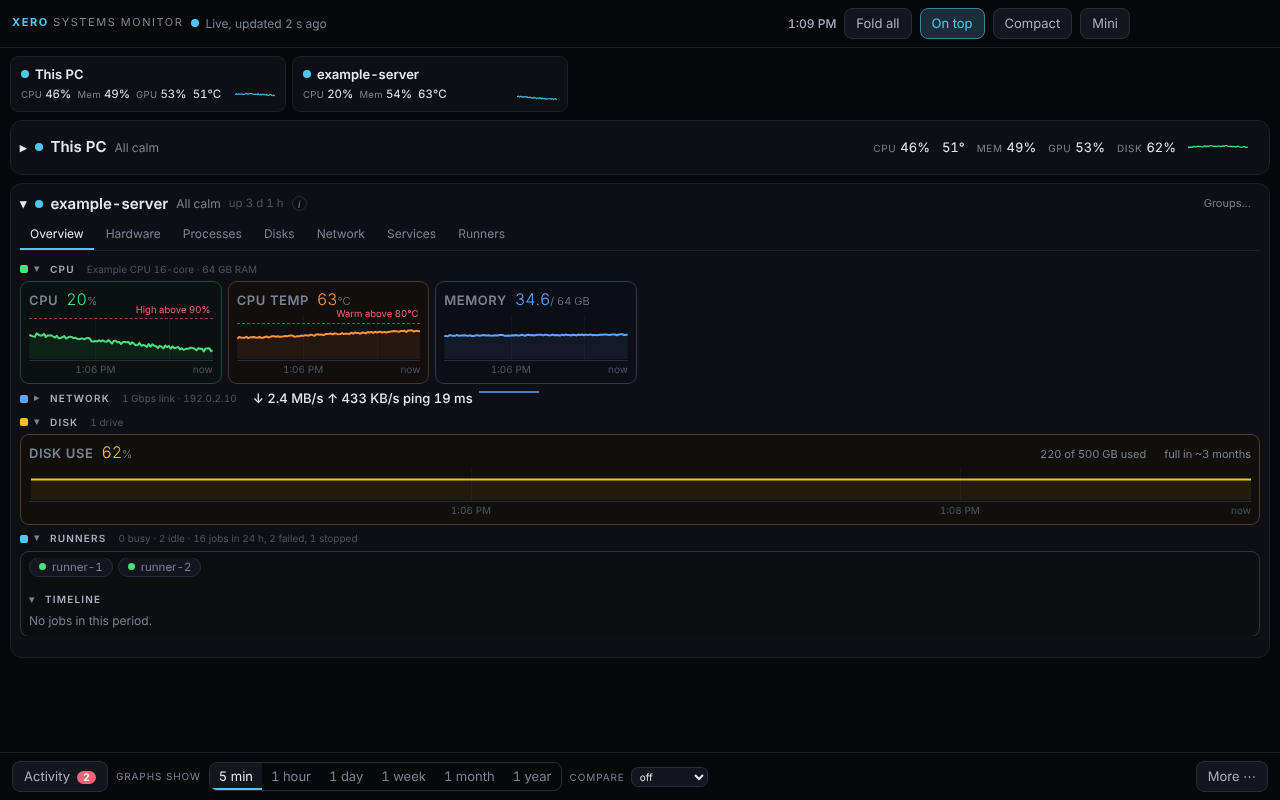
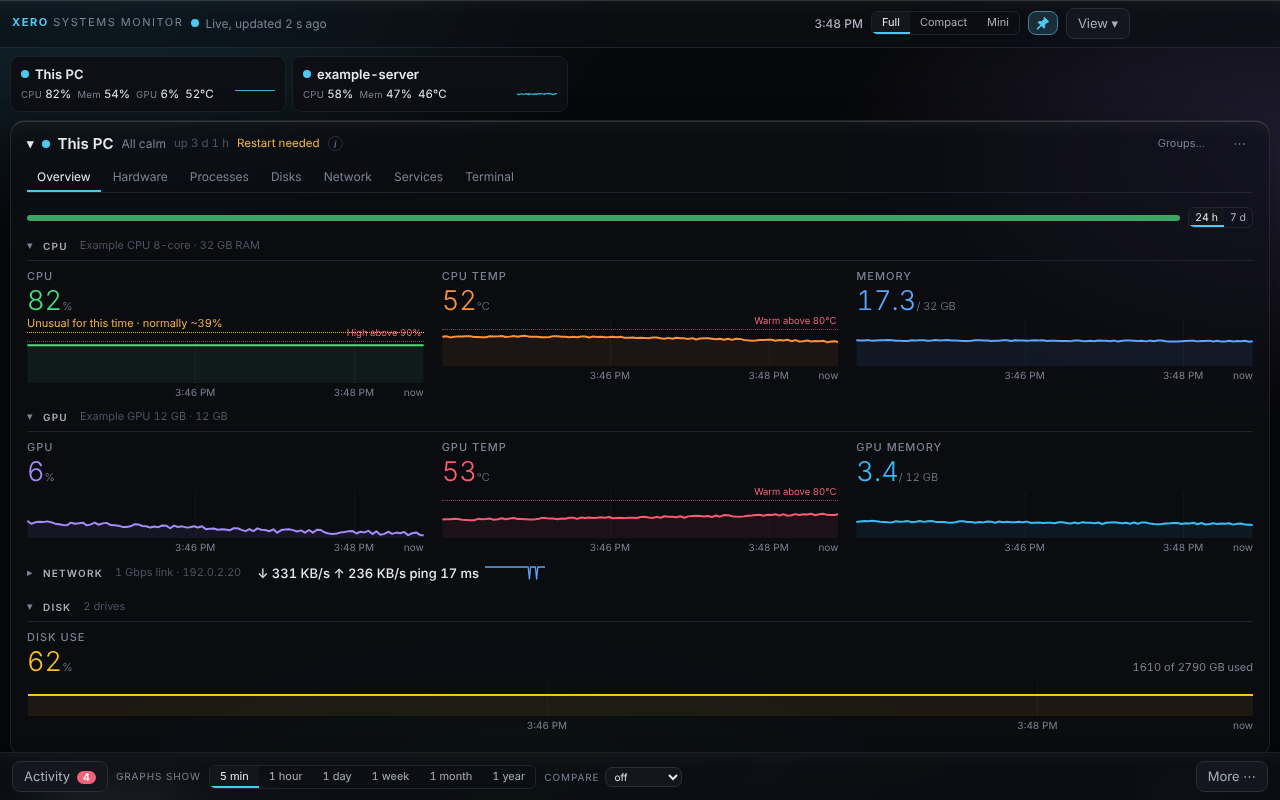
Flat glass look: one frosted surface per machine card, flat groups and open graphs, Glass setting
Claude-Session: https://claude.ai/code/session_0135roDSyKmVbufXTNSNLj3P

diff --git a/app/src/theme/model.js b/app/src/theme/model.js
@@ -4,7 +4,8 @@ import { FONT_IDS, fontStack } from "./fonts.js";
 //   { text:   { machine|section|group|number|label|small: { font, size, weight } },
 //     colors: { acc, bg, card, fg, dim, line, warn, bad, good, cpu, temp, ... },
 //     graph:  { style, width, grid, smooth, limits },
-//     size:   { card, density, scale } }
+//     size:   { card, density, scale },
+//     glass:  "off" | "subtle" | "full" }
 export const TEXT_LEVELS = [
   { id: "machine", label: "Machine name", size: 15 }, { id: "section", label: "Section header", size: 10 }, { id: "group", label: "Group header", size: 10 },
   { id: "number", label: "Big numbers", size: 16 }, { id: "label", label: "Labels", size: 13 }, { id: "small", label: "Small text", size: 11 },
@@ -15,6 +16,8 @@ export const SIZE_MIN = 8, SIZE_MAX = 32, LINE_MIN = 1, LINE_MAX = 4, SCALE_MIN 
 export const GRAPH_STYLES = [["line", "Line"], ["area", "Filled area"], ["bars", "Bars"]];
 export const CARD_SIZES = [["small", "Small"], ["medium", "Medium"], ["large", "Large"]];
 export const DENSITIES = [["compact", "Compact"], ["comfortable", "Comfortable"], ["spacious", "Spacious"]];
+export const GLASS_LEVELS = [["off", "Off (flat)"], ["subtle", "Subtle"], ["full", "Full"]];
+export const DEFAULT_GLASS = "subtle";
 export const DEFAULT_GRAPH = Object.freeze({ style: "line", width: 2, grid: true, smooth: false, limits: true });
 export const DEFAULT_SIZE = Object.freeze({ card: "medium", density: "comfortable", scale: 1 });
 const GRAPH_K = { small: 0.75, medium: 1, large: 1.4 }, DENS_K = { compact: 0.85, comfortable: 1, spacious: 1.2 }, AREA_OP = { line: 0.08, area: 0.3, bars: 0 };
@@ -58,13 +61,14 @@ export function normLook(raw) {
   const g = r.graph || {}, graph = keep({ style: oneOf(g.style, GRAPH_STYLES.map(s => s[0])), width: num(g.width, LINE_MIN, LINE_MAX), grid: typeof g.grid === "boolean" ? g.grid : undefined, smooth: typeof g.smooth === "boolean" ? g.smooth : undefined, limits: typeof g.limits === "boolean" ? g.limits : undefined });
   const s = r.size || {}, size = keep({ card: oneOf(s.card, CARD_SIZES.map(x => x[0])), density: oneOf(s.density, DENSITIES.map(x => x[0])), scale: num(s.scale, SCALE_MIN, SCALE_MAX) });
   for (const [k, v] of [["text", text], ["colors", colors], ["graph", graph], ["size", size]]) if (nonEmpty(v)) out[k] = v;
+  const glass = oneOf(r.glass, GLASS_LEVELS.map(x => x[0])); if (glass) out.glass = glass;
   return out;
 }
 // `over` on top of `base`, section by section (a text level is merged field by field).
 export function mergeLook(base, over) {
   const a = normLook(base), b = normLook(over), text = { ...a.text };
   for (const id of Object.keys(b.text || {})) text[id] = { ...text[id], ...b.text[id] };
-  return normLook({ text, colors: { ...a.colors, ...b.colors }, graph: { ...a.graph, ...b.graph }, size: { ...a.size, ...b.size } });
+  return normLook({ text, colors: { ...a.colors, ...b.colors }, graph: { ...a.graph, ...b.graph }, size: { ...a.size, ...b.size }, glass: b.glass ?? a.glass });
 }
 // A copy of `look` with the value at `path` set; undefined removes it and tidies empty parents away.
 export function setPath(look, path, value) {
@@ -75,6 +79,7 @@ export function setPath(look, path, value) {
 }
 export const getPath = (look, path) => path.reduce((o, k) => (o == null ? undefined : o[k]), look);
 export const graphOf = look => ({ ...DEFAULT_GRAPH, ...look?.graph });
+export const glassOf = look => look?.glass || DEFAULT_GLASS;
 export const sizeOf = look => ({ ...DEFAULT_SIZE, ...look?.size });
 
 // ---- CSS ----
@@ -92,7 +97,7 @@ export function lookToCss(look, { large = false } = {}) {
   const g = graphOf(look), s = sizeOf(look), scale = Math.round((large ? LARGE_SCALE : 1) * s.scale * 1000) / 1000;
   Object.assign(vars, { "--line-w": String(g.width), "--area-op": String(AREA_OP[g.style]), "--graph-k": String(GRAPH_K[s.card]), "--dens": String(DENS_K[s.density]) });
   if (scale !== (large ? LARGE_SCALE : 1)) vars["--scale"] = String(scale);
-  return { vars, attrs: { "data-grid": g.grid ? "on" : "off", "data-limits": g.limits ? "on" : "off" } };
+  return { vars, attrs: { "data-grid": g.grid ? "on" : "off", "data-limits": g.limits ? "on" : "off", "data-glass": glassOf(look) } };
 }
 
 // ---- contrast ----

diff --git a/app/src/styles/flat.css b/app/src/styles/flat.css
@@ -1,0 +1,47 @@
+/* The flat, glass look. One frosted surface per machine card (plus the header, dock, menus and dialogs); everything inside it is flat:
+   headings with a hairline, graphs sitting open, spacing instead of borders. Colour only for data. Loaded after the other style files so it
+   wins over their older boxed rules. Blur, opacity and sheen are tokens (see "glass" in tokens.css and the Glass setting in Customize). */
+body{background:radial-gradient(60vw 50vh at 8% -5%,var(--blob-a),transparent 70%) fixed,radial-gradient(50vw 45vh at 100% 20%,var(--blob-b),transparent 70%) fixed,radial-gradient(55vw 50vh at 40% 110%,var(--blob-c),transparent 70%) fixed,var(--bg)}
+.glass,.card,.top,.dock,.menu,.dlg,.gpop,.busypop,.xmtip,.drawer,.pal{background:var(--glass-bg);-webkit-backdrop-filter:blur(var(--glass-blur)) saturate(var(--glass-sat));backdrop-filter:blur(var(--glass-blur)) saturate(var(--glass-sat))}
+.card{border:1px solid var(--glass-line);border-left:var(--edge,1px) solid var(--mc,var(--glass-line));border-radius:var(--glass-radius);box-shadow:var(--glass-sheen),var(--glass-shadow);padding:var(--sp-14) var(--sp-16);gap:var(--sp-10)}
+.card.full{padding:var(--sp-12) var(--sp-16);gap:var(--sp-8)}
+.card.warn{border-color:color-mix(in srgb,var(--warn) 40%,var(--glass-line))}
+.card.off{background:var(--glass-bg-solid)}
+.top,.dock{border-color:var(--glass-line);box-shadow:var(--glass-sheen)}
+.menu,.dlg,.gpop,.busypop,.xmtip,.drawer,.pal{background:var(--glass-bg-solid);border-color:var(--glass-line);box-shadow:var(--glass-sheen),var(--shadow-menu)}
+.modal{-webkit-backdrop-filter:none;backdrop-filter:none}
+/* flat inside the card: no boxes in boxes */
+.card .panel,.detail .panel{background:none;border:0;border-radius:0;padding:0;box-shadow:none}
+.card .job,.card .track,.card .offbox .last,.card .logtext,.card .termbody,.card .mrow,.card .crow,.card .ptile{background:none;box-shadow:none}
+.card .svcnote,.card .sysnote{background:none;border:0;border-left:2px solid color-mix(in srgb,var(--busy) 70%,transparent);border-radius:0;padding:var(--sp-4) var(--sp-10)}
+.card .chip,.card .fchip{background:none}
+.job{border:0;border-bottom:1px solid var(--hair);border-radius:0;padding:var(--sp-6) 0}
+.track{border:0;border-bottom:1px solid var(--hair);border-radius:0}
+.ptile{border:0;border-radius:0}
+.logtext,.termbody{border-color:var(--hair)}
+/* groups: a plain heading and a hairline */
+.grp{gap:var(--sp-8);padding-top:var(--sp-4)}
+.grp h5{padding-bottom:var(--sp-6);border-bottom:1px solid var(--hair)}
+.grp.shut h5{border-bottom-color:transparent}
+.grp h5::before{display:none}
+.grp h5 span{font-size:var(--size-small)}
+.detail .dgrid{gap:var(--sp-14) var(--sp-18);grid-template-columns:repeat(auto-fit,minmax(200px,1fr))}
+.detail .dgrid,.detail .dgrid.two{column-gap:var(--sp-18)}
+/* graphs sit open: label above, big value below, light grid, no box */
+.detail .ph{gap:0 var(--sp-6);margin-bottom:var(--sp-4);align-items:baseline}
+.detail .ph h4{flex:1 0 100%;font-size:var(--size-small);letter-spacing:.09em;color:var(--dim)}
+.detail .ph h4 button{padding:0;border:0;background:none;color:inherit;font:inherit;letter-spacing:inherit;text-transform:inherit}
+.detail .ph .now{font-size:calc(var(--size-number) * 1.7);line-height:1.15}
+.detail .chart{border-bottom:0}
+.chart .gl{border-top-color:color-mix(in srgb,var(--line) 70%,transparent)}
+.chart .gl span{display:none}
+.detail .chart .thr{border-top-style:dotted}
+.xax{color:var(--dim)}
+/* tabs, bars and controls: neutral chrome, hairlines */
+.tabs{border-bottom-color:var(--hair);margin-bottom:var(--sp-8)}
+.bar{border-bottom-color:var(--hair)}
+.seg{border-color:var(--hair)}
+.svcrow:hover,.trow:hover:not(.head),.prow:hover{background:color-mix(in srgb,var(--fg) 5%,transparent)}
+@media (prefers-reduced-transparency:reduce){.card,.top,.dock{box-shadow:none}}
+/* one group per row, graphs side by side inside it */
+@container (min-width:860px){.tabpanel{display:flex;flex-direction:column}}

diff --git a/app/test/theme.test.js b/app/test/theme.test.js
@@ -2,6 +2,13 @@ import test from "node:test";
 import assert from "node:assert/strict";
 import { readFileSync } from "node:fs";
 import { ALL_COLORS, normLook, mergeLook, setPath, getPath, lookToCss, contrast, contrastWarning, parseTheme, exportTheme, normTheme, newId, graphOf, sizeOf } from "../src/theme/model.js";
+test("glass defaults to subtle, is written as data-glass, and is cleaned and merged", () => {
+  assert.equal(lookToCss({}).attrs["data-glass"], "subtle");
+  assert.equal(lookToCss({ glass: "off" }).attrs["data-glass"], "off");
+  assert.equal(normLook({ glass: "melted" }).glass, undefined);
+  assert.equal(mergeLook({ glass: "full" }, {}).glass, "full");
+  assert.equal(mergeLook({ glass: "full" }, { glass: "off" }).glass, "off");
+});
 import { PRESETS, resolveTheme, makeTheme, cleanSaved } from "../src/theme/presets.js";
 import { FONTS, fontStack } from "../src/theme/fonts.js";
 import { seriesPaths } from "../src/theme/graphStyle.js";
@@ -55,10 +62,10 @@ test("lookToCss gives variables, derived colours, text levels, graph and size va
   assert.equal(vars["--crit"], "#ff0000"); assert.equal(vars["--bad"], "#ff0000");
   assert.equal(vars["--font-machine"], '"Lato", system-ui, sans-serif'); assert.equal(vars["--size-machine"], "calc(18px * var(--scale))"); assert.equal(vars["--weight-machine"], "700");
   assert.equal(vars["--line-w"], "3"); assert.equal(vars["--area-op"], "0.3"); assert.equal(vars["--graph-k"], "1.4"); assert.equal(vars["--dens"], "0.85"); assert.equal(vars["--scale"], "1.1");
-  assert.deepEqual(attrs, { "data-grid": "off", "data-limits": "off" });
+  assert.deepEqual(attrs, { "data-grid": "off", "data-limits": "off", "data-glass": "subtle" });
   const plain = lookToCss({}), large = lookToCss({}, { large: true }), both = lookToCss({ size: { scale: 1.5 } }, { large: true });
   assert.equal(plain.vars["--scale"], undefined); assert.equal(large.vars["--scale"], undefined); assert.equal(both.vars["--scale"], "1.74");
-  assert.equal(plain.vars["--area-op"], "0.08"); assert.deepEqual(plain.attrs, { "data-grid": "on", "data-limits": "on" });
+  assert.equal(plain.vars["--area-op"], "0.08"); assert.deepEqual(plain.attrs, { "data-grid": "on", "data-limits": "on", "data-glass": "subtle" });
   assert.equal(lookToCss({ colors: { acc: "#0a0a0a" } }).vars["--on-acc"], "#ffffff");
   assert.equal(lookToCss({ colors: { fg: "#ffffff", dim: "#999999", line: "#222222" } }).vars["--line2"].startsWith("color-mix"), true);
 });

diff --git a/app/src/styles/tokens.css b/app/src/styles/tokens.css
@@ -15,6 +15,13 @@
   --danger-text:#f2637acc; --danger-line:#f2637a55;
   --on-acc:#04121a; --on-strong:#fff; --hover-mix:#fff; --mask-solid:#000;
   --tip-bg:#12151c; --scrim:#000a; --chart-cursor:#ffffff38; --c-fallback:#888;
+  /* glass: the machine cards, header and dock, menus and dialogs are frosted; blur and opacity come from the Glass setting (data-glass on <html>) */
+  --glass-bg: color-mix(in srgb, var(--s1) 62%, transparent); --glass-bg-solid: color-mix(in srgb, var(--s1) 88%, transparent);
+  --glass-blur: 18px; --glass-sat: 1.4;
+  --glass-line: #ffffff17; --glass-sheen: inset 0 1px 0 #ffffff24, inset 0 18px 24px -18px #ffffff12;
+  --glass-shadow: 0 10px 34px #0006; --glass-radius: var(--r-14);
+  --blob-a:#4cc9f02e; --blob-b:#a78bfa29; --blob-c:#4ade8019; --blob-op: 1;
+  --hair: color-mix(in srgb, var(--line2) 70%, transparent);
   /* shadows */
   --shadow-menu: 0 12px 40px #000c; --shadow-drawer: 0 -10px 28px #000a; --shadow-tip: 0 8px 24px #000a; --shadow-pop: 0 8px 28px #0008; --shadow-dlg: none;
   /* fonts: one family per text level; all default to the system stack */
@@ -111,5 +118,13 @@
   color-scheme: light;
   --on-acc:#fff;
   --shadow-menu: 0 8px 28px #0003; --shadow-drawer: 0 8px 28px #0003; --shadow-dlg: 0 8px 28px #0003;
+  --glass-bg: color-mix(in srgb, var(--s1) 66%, transparent); --glass-bg-solid: color-mix(in srgb, var(--s1) 90%, transparent);
+  --glass-line: #ffffffcc; --glass-sheen: inset 0 1px 0 #ffffffe6, inset 0 18px 24px -18px #ffffffaa;
+  --glass-shadow: 0 8px 28px #1a233a1f;
+  --blob-a:#0a7ea42e; --blob-b:#8b5cf624; --blob-c:#16a34a1a;
 }
 html[data-size="large"] { --scale: 1.16; }
+/* Glass setting (Customize > Size): Subtle is the default above. Off is flat and solid; Full is clearer and more blurred. */
+html[data-glass="off"] { --glass-bg: var(--s1); --glass-bg-solid: var(--s1); --glass-blur: 0px; --glass-sat: 1; --glass-sheen: none; --glass-shadow: none; --blob-op: 0; --glass-line: var(--line); }
+html[data-glass="full"] { --glass-bg: color-mix(in srgb, var(--s1) 42%, transparent); --glass-bg-solid: color-mix(in srgb, var(--s1) 78%, transparent); --glass-blur: 28px; --glass-sat: 1.7; --blob-op: 1.6; }
+@media (prefers-reduced-transparency: reduce) { :root, html[data-glass] { --glass-bg: var(--s1); --glass-bg-solid: var(--s1); --glass-blur: 0px; --glass-sat: 1; --glass-sheen: none; --glass-shadow: none; --blob-op: 0; --glass-line: var(--line); } }

diff --git a/app/src/customize/CustomGraphs.jsx b/app/src/customize/CustomGraphs.jsx
@@ -1,4 +1,4 @@
-import { GRAPH_STYLES, LINE_MIN, LINE_MAX, CARD_SIZES, DENSITIES, SCALE_MIN, SCALE_MAX, graphOf, sizeOf } from "../theme/model.js";
+import { GRAPH_STYLES, LINE_MIN, LINE_MAX, CARD_SIZES, DENSITIES, SCALE_MIN, SCALE_MAX, GLASS_LEVELS, graphOf, sizeOf, glassOf } from "../theme/model.js";
 import { Reset, Row, Seg, Toggle } from "./controls.jsx";
 const WIDTHS = Array.from({ length: LINE_MAX - LINE_MIN + 1 }, (_, i) => [LINE_MIN + i, String(LINE_MIN + i)]);
 // Graphs tab: how graphs are drawn.
@@ -22,6 +22,8 @@ export function CustomSize({ c }) {
       <Row label="Card size"><Seg label="Card size" value={s.card} options={CARD_SIZES} onChange={v => set("card", v)} /><Reset show={c.has(["size", "card"])} what="card size" onClick={() => c.reset(["size", "card"])} /></Row>
       <p className="chint">Small, Medium and Large change how tall the graphs are.</p>
       <Row label="Density"><Seg label="Density" value={s.density} options={DENSITIES} onChange={v => set("density", v)} /><Reset show={c.has(["size", "density"])} what="density" onClick={() => c.reset(["size", "density"])} /></Row>
+      <Row label="Glass"><Seg label="Glass" value={glassOf(c.look)} options={GLASS_LEVELS} onChange={v => c.edit(["glass"], v)} /><Reset show={c.has(["glass"])} what="glass" onClick={() => c.reset(["glass"])} /></Row>
+      <p className="chint">Frosted cards, menus and bars. Off is plain and flat. It also turns off by itself when Windows asks for less transparency.</p>
       <Row label="Text scale"><input type="range" min={SCALE_MIN} max={SCALE_MAX} step="0.05" value={s.scale} aria-label="Text scale" onChange={e => set("scale", +e.target.value)} /><code>{Math.round(s.scale * 100)}%</code><Reset show={c.has(["size", "scale"])} what="text scale" onClick={() => c.reset(["size", "scale"])} /></Row>
     </div>);
 }

diff --git a/app/src/main.jsx b/app/src/main.jsx
@@ -19,6 +19,7 @@ import "./styles/processes.css";
 import "./styles/terminal.css";
 import "./styles/network.css";
 import "./styles/runners.css";
+import "./styles/flat.css";
 import { installTips } from "./tooltip.js";
 installTips();
 createRoot(document.getElementById("root")).render(<App />);

diff --git a/CHANGELOG.md b/CHANGELOG.md
@@ -4,6 +4,8 @@ All notable changes are listed here. Format: [Keep a Changelog](https://keepacha
 
 ## [Unreleased]
 
+- Changed: a flatter, calmer look. Each machine card is one frosted-glass surface; groups are plain headings with a hairline, graphs sit open with the label and big number above, and colour is used only for data. A soft colourful backdrop shows through the glass. New Customize > Size > Glass setting (Off, Subtle, Full); it also turns off when Windows asks for less transparency.
+
 - Added: the Runners tab is the full runners view: one row per runner (name, status, current job, time in the job), the queue of jobs waiting for this machine's runners, and a "Check work folder sizes" button (over ssh with `du` and a time limit on Linux, walked on This PC); the timeline, last 7 days, busy heatmap and job history sit below. Overview keeps the compact runners block with the timeline. New command `get_work_size`.
 - Added: the mini window can be resized by dragging its edges; its content flows into 1, 2 or 3 columns by width, and the size is remembered (the Fit button forgets it). New command `set_mini_size`.
 - Added: the Services tab now also lists the machine's own services (systemd on Linux, Windows services on This PC) with a Failed / Running / Stopped filter and Restart, Stop and Start buttons you hold for a moment to confirm. Linux machines show how many updates are waiting (looked up every 30 minutes), "Restart needed", Install updates and Restart machine. Linux actions use `sudo -n` only; if sudo needs a password the app shows the command to run yourself, with a Copy button, and never stores a password.

diff --git a/README.md b/README.md
@@ -7,7 +7,7 @@ A small, always-on-top monitor for the machines you own: your Windows PC and the
 [![Platform: Windows 10/11](https://img.shields.io/badge/platform-Windows%2010%2F11-informational.svg)](#install)
 [![Built with Tauri](https://img.shields.io/badge/built%20with-Tauri%202-orange.svg)](https://tauri.app)
 
-![The main window in the dark theme](docs/screenshots/main.png)
+![The main window in the dark theme: one frosted card per machine, graphs sitting open](docs/screenshots/main.png)
 
 The screenshots show made-up demo data, not a real machine.
 
@@ -26,7 +26,7 @@ One window shows CPU, memory, disk, network, GPU and temperatures, plus GitHub A
 </tr>
 <tr>
 <td width="50%"><img src="docs/screenshots/compact.png" alt="The compact view"></td>
-<td width="50%"><img src="docs/screenshots/light.png" alt="The light theme"></td>
+<td width="50%"><img src="docs/screenshots/light.png" alt="The light theme with frosted glass cards"></td>
 </tr>
 <tr>
 <td valign="top">Compact view (press <b>C</b>): one line per machine. There is also a mini corner view (<b>M</b>) you can drag to any size; it shows 1 to 3 columns and remembers its size. Click a machine name to fold its card into one bar; <b>F</b> folds all, <b>Shift+F</b> opens all. Press <b>Ctrl+K</b> to search for a machine, group or setting; drag cards to reorder them.</td>
